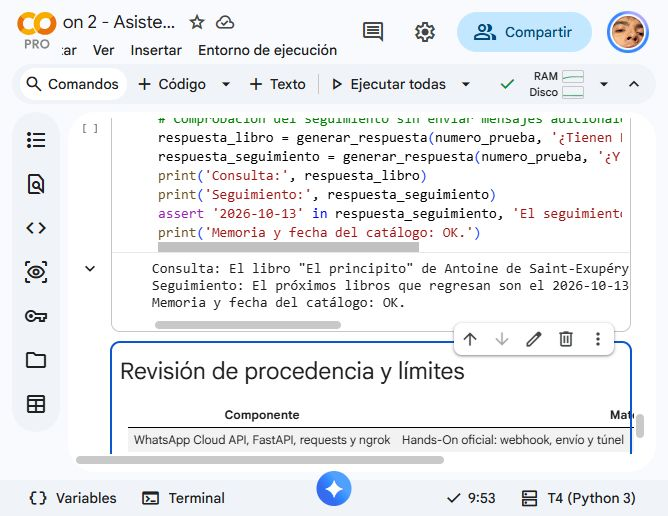
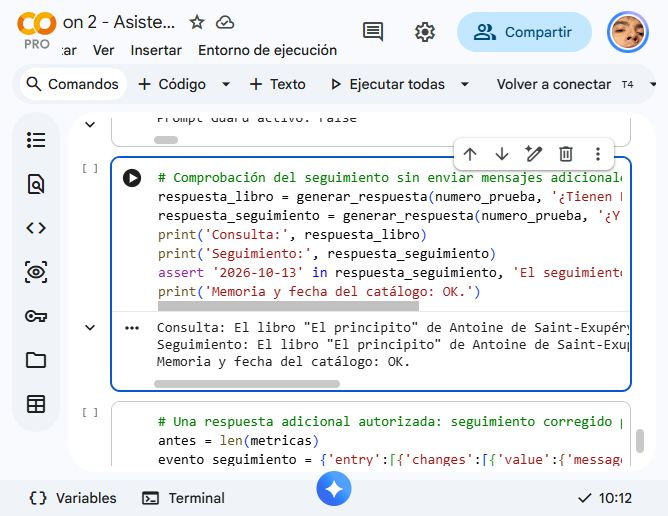
Simplificar la documentación del proyecto

diff --git a/README.md b/README.md
@@ -59,21 +59,9 @@ Antes de esa tanda se registraron dos fallos porque Ollama dejó de responder; a
 
 El notebook conserva las respuestas originales y la comprobación de la corrección. No se oculta el resultado incoherente inicial.
 
-## Herramientas y materiales del curso
+## Fuentes
 
-| Componente | Procedencia |
-| --- | --- |
-| WhatsApp Cloud API, FastAPI, requests y ngrok | Hands-On: webhook, envío y túnel |
-| Ollama, Llama 3.1 8B y Llama Stack | Hands-On: instalación, modelo y conversaciones |
-| Memoria, locks y deduplicación | Hands-On: estado y procesamiento |
-| SentenceTransformer y NumPy | Hands-On: embeddings y búsqueda en el reglamento |
-| Function calling | Hands-On: herramientas y devolución de resultados |
-| Llama Guard y Prompt Guard | Hands-On: seguridad de entrada y salida |
-| Reglas y métricas | Hands-On: saludo, escalamiento y monitoreo |
 
-La consulta de salas y el filtro por frases son adaptaciones propias de los patrones enseñados. La clase del 1 de octubre, 00:14–00:16, pide una herramienta adicional; 00:58–01:02 trata el acceso restringido a Prompt Guard y el uso de Llama Guard cuando no se puede cargar. `getpass` se incorpora por el requisito de privacidad de esta entrega y no se atribuye a la clase. Los ajustes de versiones y de recuperación de servicios son adaptaciones de compatibilidad.
-
-Fuentes originales:
 
 - [Actividad Hackathon 2 en Campus](https://edu.devf.la/es/campus/program/module/automatizacion-inteligente-con-whatsapp/agente-de-whatsapp/project/hackathon-2).
 - [Presentación oficial](https://docs.google.com/presentation/d/1mD0beOpNmwAu_uXlJokB9RtxNSYV1JwboePQiV0zQ7c/edit): documentación en Markdown, respuestas coherentes y demostración del agente.
